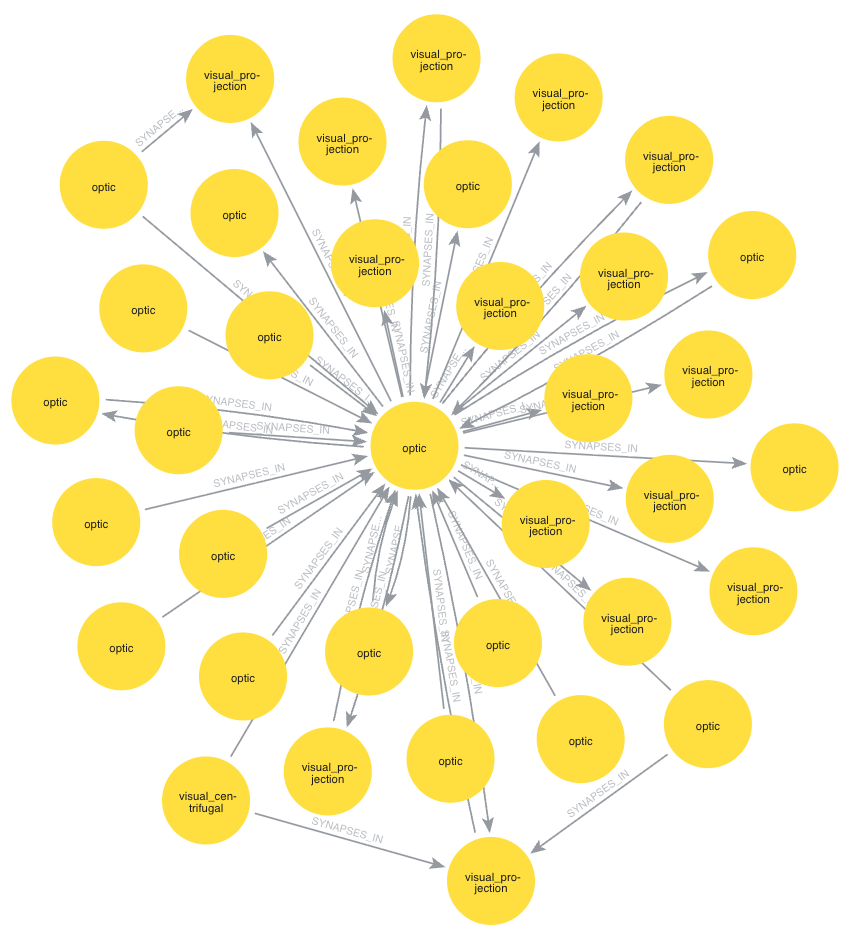
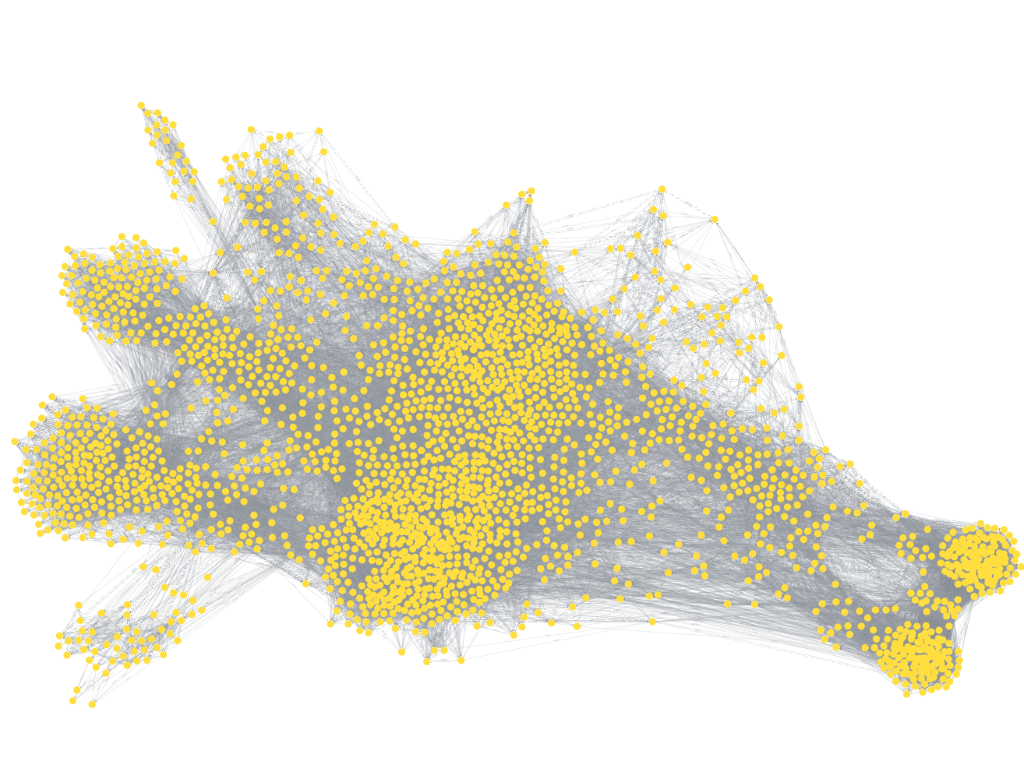
change images

diff --git a/README.md b/README.md
@@ -2,9 +2,8 @@
 
 The complete wiring diagram of an adult *Drosophila* brain, from Lin et al., [Nature 2024](https://www.nature.com/articles/s41586-024-07558-y). 127,978 neurons, 2,613,129 directed synaptic connections.
 
-|                        |                       |
-| ---------------------- | --------------------- |
-| ![](images/schema.png) | ![](images/graph.png) |
+![](images/graph.png)
+![](images/schema.png)
 
 ## Graph
 
